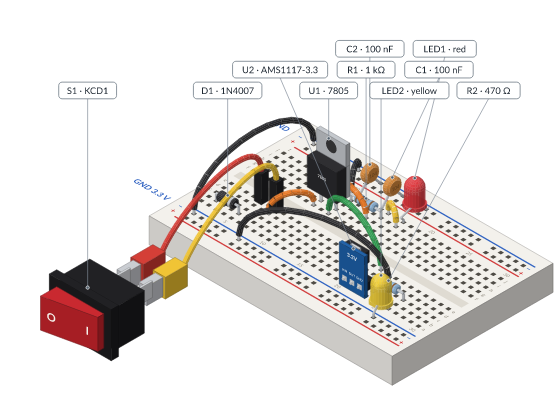
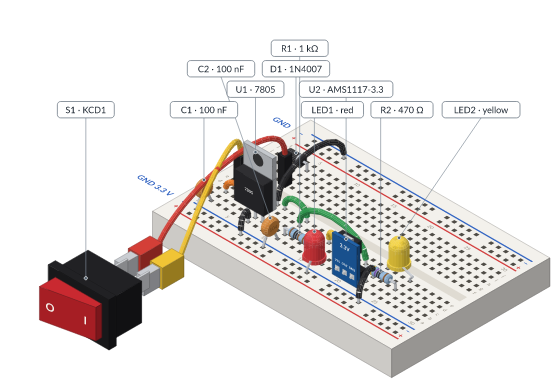
Draw the README images again and describe the new parts in the examples' index

diff --git a/examples/README.es.md b/examples/README.es.md
@@ -65,7 +65,7 @@ microcontroladores: [microcontroladores.md](../docs/es/microcontroladores.md).
 
 | | |
 |---|---|
-| <img src="../docs/img/examples/parts-showcase.png" width="280" alt="Todos los componentes del kit"> | **[parts-showcase.json](parts-showcase.json)**: resistencias (5 % y 1 %), diodos, LED, condensadores, transistores, un módulo AMS1117 y cables, uno al lado del otro. Sus notas sobre patas sin conectar son esperadas. |
+| <img src="../docs/img/examples/parts-showcase.png" width="280" alt="Todos los componentes del kit"> | **[parts-showcase.json](parts-showcase.json)**: resistencias (5 % y 1 %), diodos, LED (uno RGB), condensadores, transistores, un módulo AMS1117, un display de 7 segmentos, interruptores deslizante y de inclinación, un LM35 y, al lado de la protoboard, un relé y un motor DC, con cables. Sus notas sobre patas sin conectar son esperadas. |
 | <img src="../docs/img/examples/more-parts.png" width="280" alt="Más componentes"> | **[more-parts.json](more-parts.json)**: trimmer, Zener, inductor, termistor, LDR, zumbador, pines de cabecera, LM324, LM317, PC817 y celdas de litio. |
 
 ## Mal a propósito

diff --git a/examples/README.md b/examples/README.md
@@ -64,7 +64,7 @@ Programs (Arduino sketches that run in the simulation) are in the microcontrolle
 
 | | |
 |---|---|
-| <img src="../docs/img/examples/parts-showcase.png" width="280" alt="Every part in the kit"> | **[parts-showcase.json](parts-showcase.json)**: resistors (5 % and 1 %), diodes, LEDs, capacitors, transistors, an AMS1117 module and jumpers side by side. Its notes about unconnected pins are expected. |
+| <img src="../docs/img/examples/parts-showcase.png" width="280" alt="Every part in the kit"> | **[parts-showcase.json](parts-showcase.json)**: resistors (5 % and 1 %), diodes, LEDs (one RGB), capacitors, transistors, an AMS1117 module, a 7-segment display, slide and tilt switches, an LM35, and beside the board a relay and a DC motor, with jumpers. Its notes about unconnected pins are expected. |
 | <img src="../docs/img/examples/more-parts.png" width="280" alt="More parts"> | **[more-parts.json](more-parts.json)**: trimmer, Zener, inductor, thermistor, LDR, buzzer, header, LM324, LM317, PC817 and lithium cells. |
 
 ## Wrong on purpose

diff --git a/README.es.md b/README.es.md
@@ -81,7 +81,7 @@ deslizadores cambian resistencias, fuentes y sensores mientras corre.
 ## Recetas
 
 Los circuitos de lección habituales salen listos por su nombre, solo con los valores que cambias
-([las 25 recetas](docs/es/recetas.md)):
+([las 32 recetas](docs/es/recetas.md)):
 
 | | | |
 |---|---|---|

diff --git a/CHANGELOG.md b/CHANGELOG.md
@@ -9,6 +9,11 @@ detail.
 
 ## [Unreleased]
 
+### Changed
+
+- The READMEs' images drawn again with 0.9.1 (the shade of an LED that is off), the count of recipes
+  (32) and the parts showcase's description with the new parts.
+
 ## [0.9.1] - 2026-11-04
 
 Fixes found trying 0.9.0 on a phone and a tablet.

diff --git a/README.md b/README.md
@@ -79,7 +79,7 @@ sensors while it runs.
 ## Recipes
 
 Usual lesson circuits come ready by name, with only the values you change
-([all 25 recipes](docs/en/recipes.md)):
+([all 32 recipes](docs/en/recipes.md)):
 
 | | | |
 |---|---|---|
